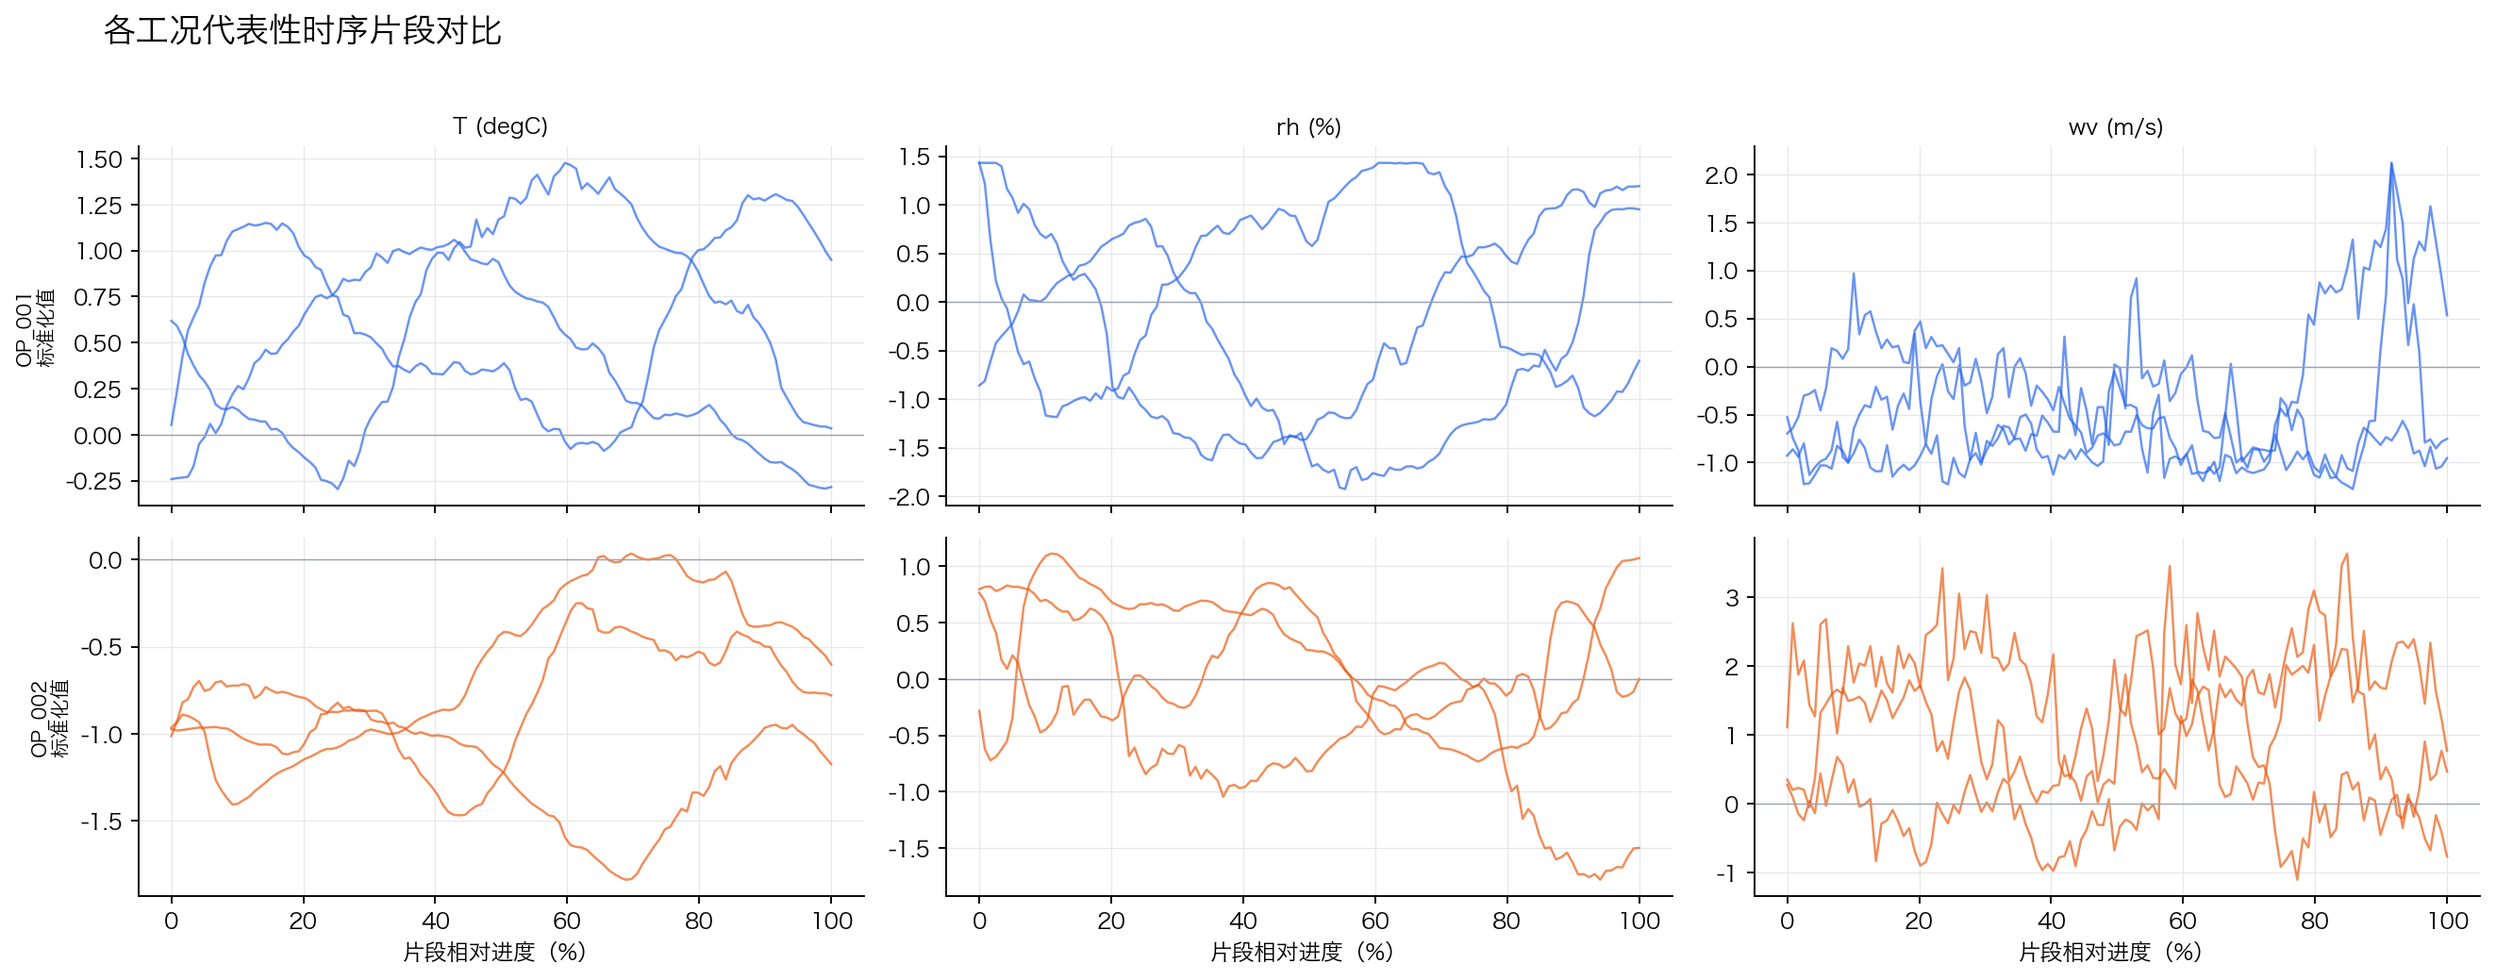
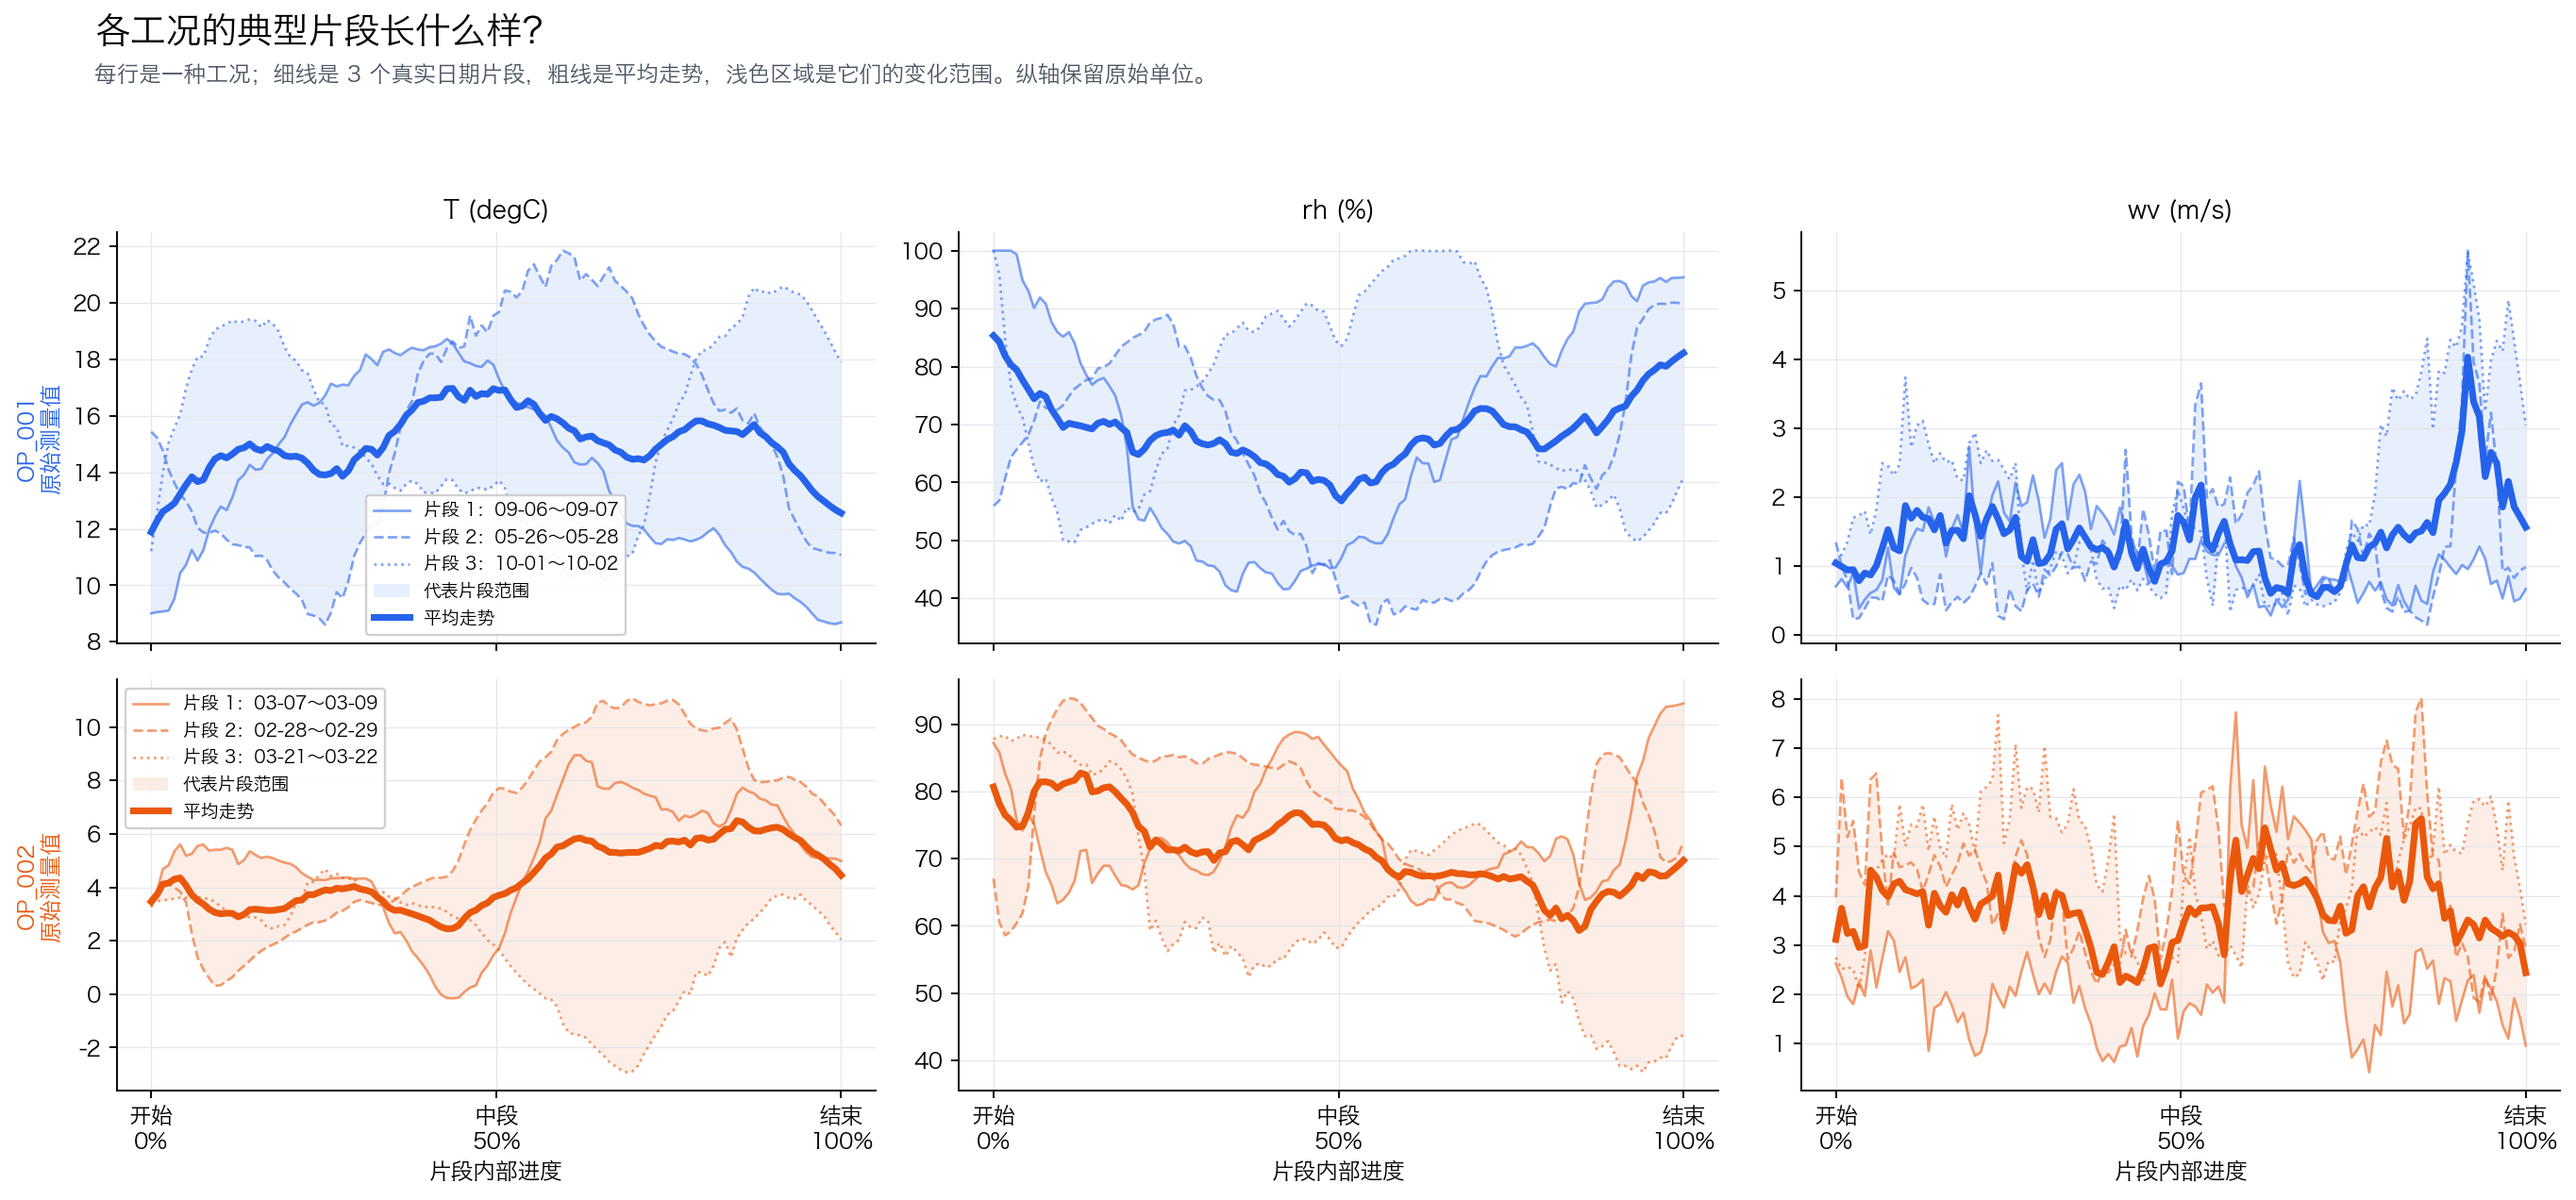
Update visualization

diff --git a/visualization.py b/visualization.py
@@ -143,8 +143,9 @@ def plot_representative_segments(
     output: str | Path,
     representative_count: int = 3,
     sensor_count: int = 3,
+    times: pd.DatetimeIndex | None = None,
 ) -> None:
-    """每个工况选取靠近二维中心的 2–3 段，按相对进度叠加比较。"""
+    """用原始单位、日期图例、均值线和范围带展示各工况的代表片段。"""
     # 优先选择含义互补且易解释的温度、湿度、风速；列名不匹配时再按方差补齐。
     preferred_groups = [
         ("t (degc)", "t_degc"),
@@ -169,33 +170,86 @@ def plot_representative_segments(
     operations = list(representatives)
     fig, axes = plt.subplots(
         len(operations), len(sensors), squeeze=False,
-        figsize=(5.2 * len(sensors), max(4.0, 3.1 * len(operations))), sharex=True,
+        figsize=(5.4 * len(sensors), max(4.8, 3.8 * len(operations))), sharex=True,
     )
-    global_mean = values[sensors].mean()
-    global_std = values[sensors].std(ddof=0).replace(0, 1.0)
     target_x = np.linspace(0, 100, 120)
+    line_styles = ["-", "--", ":"]
 
     for row_index, operation in enumerate(operations):
         group = representatives[operation]
         color = COLORS[row_index % len(COLORS)]
         for column_index, sensor in enumerate(sensors):
             axis = axes[row_index, column_index]
-            for segment in group.itertuples(index=False):
+            normalized_segments: list[np.ndarray] = []
+            for segment_index, segment in enumerate(group.itertuples(index=False), start=1):
                 start, end = int(segment.start_index), int(segment.end_index_exclusive)
-                series = ((values[sensor].iloc[start:end] - global_mean[sensor]) / global_std[sensor]).to_numpy()
+                series = values[sensor].iloc[start:end].to_numpy(dtype=float)
                 old_x = np.linspace(0, 100, len(series))
-                axis.plot(target_x, np.interp(target_x, old_x, series), color=color, alpha=0.68, linewidth=1.05)
-            axis.axhline(0, color="#9CA3AF", linewidth=0.6)
+                normalized = np.interp(target_x, old_x, series)
+                normalized_segments.append(normalized)
+
+                if {"start_time", "end_time"}.issubset(group.columns):
+                    start_time = pd.to_datetime(segment.start_time)
+                    end_time = pd.to_datetime(segment.end_time)
+                elif times is not None:
+                    start_time = pd.Timestamp(times[start])
+                    end_time = pd.Timestamp(times[min(end - 1, len(times) - 1)])
+                else:
+                    start_time = end_time = None
+                if start_time is not None:
+                    date_label = f"片段 {segment_index}：{start_time:%m-%d}～{end_time:%m-%d}"
+                else:
+                    date_label = f"代表片段 {segment_index}"
+
+                axis.plot(
+                    target_x,
+                    normalized,
+                    color=color,
+                    alpha=0.58,
+                    linewidth=1.15,
+                    linestyle=line_styles[(segment_index - 1) % len(line_styles)],
+                    label=date_label if column_index == 0 else "_nolegend_",
+                )
+
+            stacked = np.vstack(normalized_segments)
+            mean_curve = stacked.mean(axis=0)
+            axis.fill_between(
+                target_x,
+                stacked.min(axis=0),
+                stacked.max(axis=0),
+                color=color,
+                alpha=0.10,
+                linewidth=0,
+                label="代表片段范围" if column_index == 0 else "_nolegend_",
+            )
+            axis.plot(
+                target_x,
+                mean_curve,
+                color=color,
+                linewidth=3.0,
+                label="平均走势" if column_index == 0 else "_nolegend_",
+            )
             axis.grid(color="#E5E7EB", linewidth=0.55)
             axis.spines[["top", "right"]].set_visible(False)
             if row_index == 0:
-                axis.set_title(_short_name(sensor), fontsize=10, weight="bold")
+                axis.set_title(_short_name(sensor), fontsize=11, weight="bold")
             if column_index == 0:
-                axis.set_ylabel(f"{operation}\n标准化值", fontsize=9)
+                axis.set_ylabel(f"{operation}\n原始测量值", fontsize=10, weight="bold", color=color)
+                axis.legend(loc="best", frameon=True, framealpha=0.92, fontsize=8)
             if row_index == len(operations) - 1:
-                axis.set_xlabel("片段相对进度（%）")
-    fig.suptitle("各工况代表性时序片段对比", x=0.04, ha="left", fontsize=15, weight="bold")
-    fig.tight_layout(rect=(0, 0, 1, 0.96))
+                axis.set_xlabel("片段内部进度")
+            axis.set_xticks([0, 50, 100], ["开始\n0%", "中段\n50%", "结束\n100%"])
+    fig.suptitle("各工况的典型片段长什么样？", x=0.04, ha="left", fontsize=16, weight="bold")
+    fig.text(
+        0.04,
+        0.94,
+        "每行是一种工况；细线是 3 个真实日期片段，粗线是平均走势，浅色区域是它们的变化范围。纵轴保留原始单位。",
+        ha="left",
+        va="top",
+        fontsize=10,
+        color="#4B5563",
+    )
+    fig.tight_layout(rect=(0, 0, 1, 0.90))
     fig.savefig(output, dpi=170, bbox_inches="tight")
     plt.close(fig)
 
@@ -250,7 +304,7 @@ def generate_all_visualizations(
     ]
     plot_multichannel_segments(times, values, segments, outputs[0], max_channels=max_channels)
     plot_cluster_scatter(points, centers, outputs[1])
-    plot_representative_segments(values, points, outputs[2])
+    plot_representative_segments(values, points, outputs[2], times=times)
     plot_operation_timeline(labels, outputs[3])
     return outputs
 
